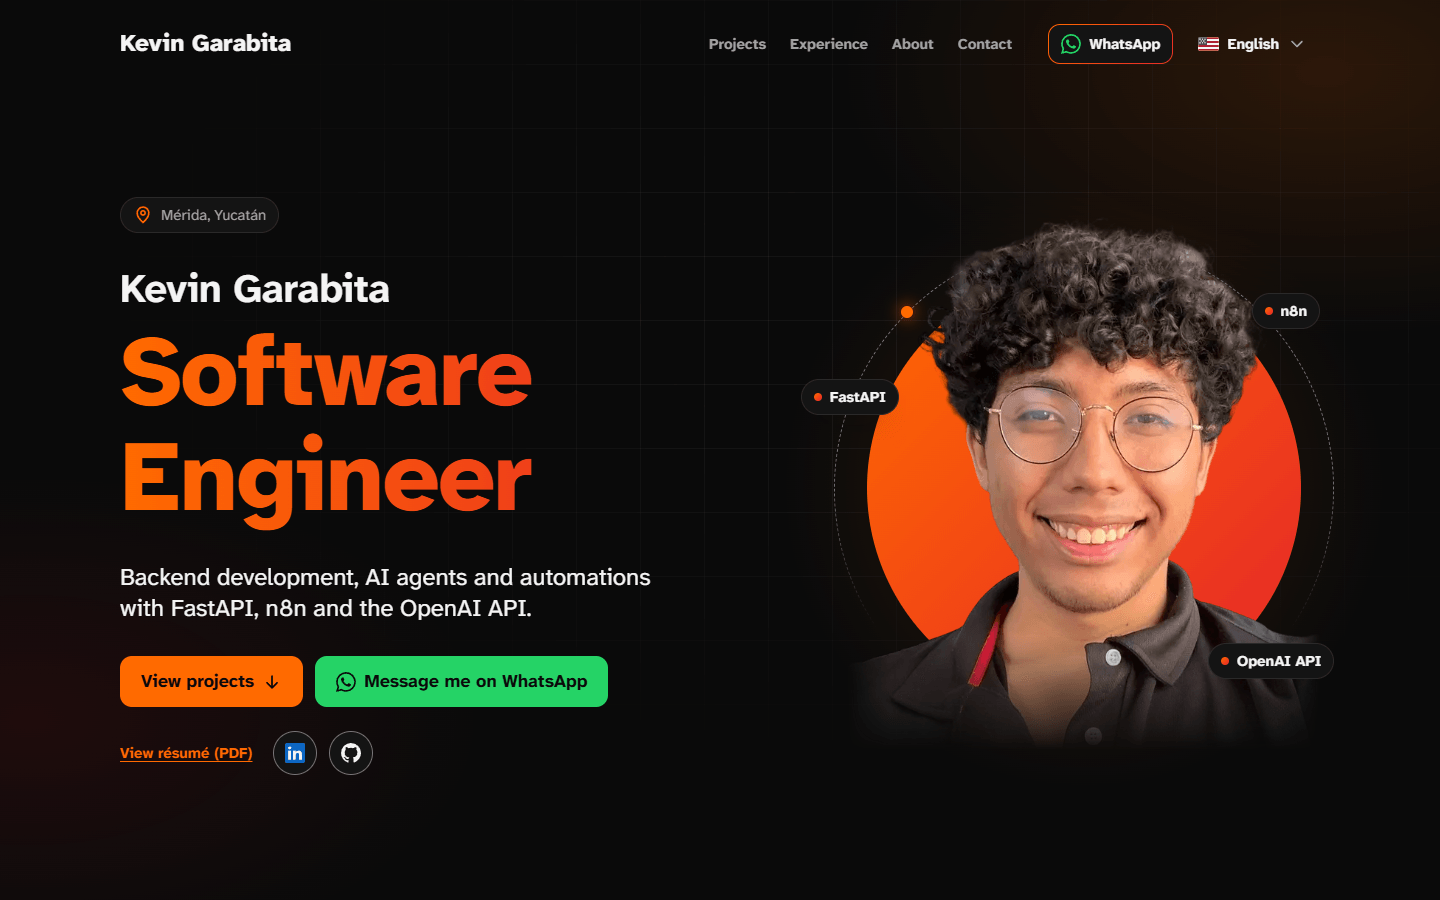
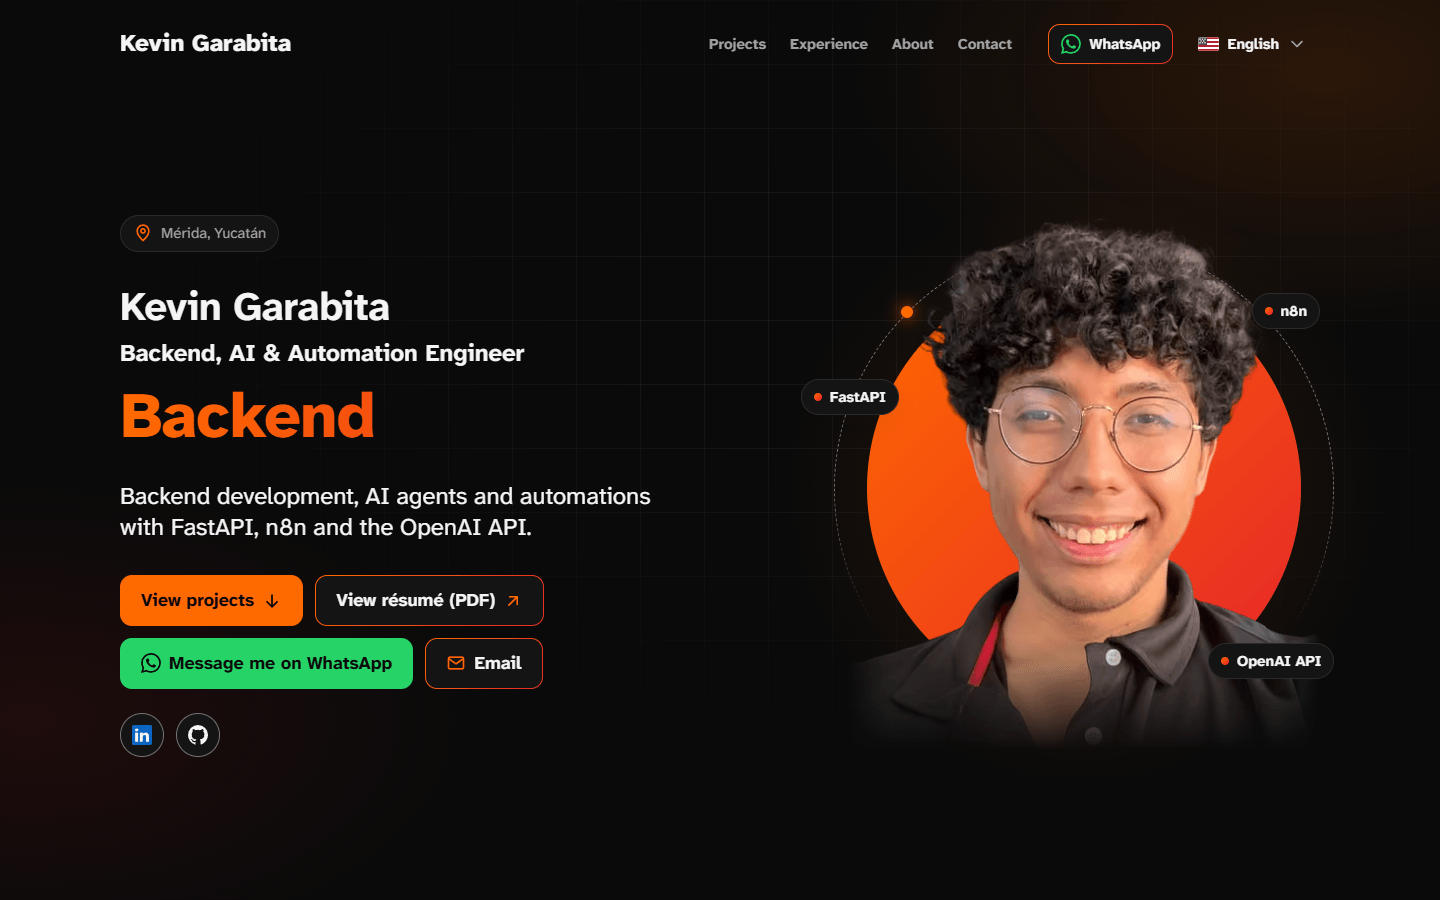
docs(readme): show the final Lighthouse scores, the new hero and the merged changes
Retakes both screenshots with the new heading and buttons, and describes the
one-hop redirects, the case-study structured data, the checked SEO lengths,
the image work, the build badge values and where the CVs and availability live.

Changed region(s): [[0.0625, 0.3111, 0.4688, 0.5911], [0.0625, 0.6222, 0.4688, 0.8711], [0.0938, 0.2178, 0.1875, 0.28]]

diff --git a/README.md b/README.md
@@ -7,15 +7,15 @@ Source code of the personal site of **Kevin Garabita**, a Backend, AI & Automati
 **Live site: [www.garasoftware.com.mx](https://www.garasoftware.com.mx)**
 
 <p align="center">
-  <img src="docs/screenshots/home-desktop.png" width="600" alt="English home page on a desktop screen: Kevin Garabita's name and title, a summary of his backend, AI agent and automation work, buttons to view his projects and message him on WhatsApp, links to his résumé, LinkedIn and GitHub, and his photo in front of an orange-to-red circle labelled FastAPI, n8n and OpenAI API.">
-  <img src="docs/screenshots/home-phone.png" width="173" alt="The same English home page on a phone: the photo first, then the name, title, summary and buttons stacked in one column.">
+  <img src="docs/screenshots/home-desktop.png" width="600" alt="English home page on a desktop screen: the heading Kevin Garabita, Backend, AI &amp; Automation Engineer, the word Backend in large orange letters, a summary of his backend, AI agent and automation work, buttons to view his projects, view his résumé, message him on WhatsApp and email him, LinkedIn and GitHub links, and his photo in front of an orange-to-red circle labelled FastAPI, n8n and OpenAI API.">
+  <img src="docs/screenshots/home-phone.png" width="173" alt="The same English home page on a phone: the photo first, then the name and role, the word Backend, the summary and the buttons stacked in one column.">
 </p>
 
 ## Highlights
 
 - **Four languages without an i18n library**, with types that fail the build when a text is missing in any of them.
 - **Every page is static HTML**, generated at build time for each language and project.
-- **SEO built from the content**: complete metadata on every page, `hreflang`, a sitemap dated by the content, Open Graph images rendered at build time and JSON-LD structured data.
+- **SEO built from the content**: complete metadata on every page (titles and descriptions whose length the build checks), `hreflang`, a sitemap dated by the content, Open Graph images rendered at build time and JSON-LD structured data on every page.
 - **Accessibility as a gate**: the full `jsx-a11y` recommended rule set with zero warnings allowed, keyboard and screen-reader support in the menus, filters and gallery, and measured colour contrast.
 - **Three runtime dependencies**: `next`, `react` and `react-dom`. No UI kit, animation library or i18n package.
 - **Continuous integration** on every pull request: lint, typecheck, formatting and a production build.
@@ -41,23 +41,25 @@ Each decision is written down with its reason in [`docs/decisions.md`](docs/deci
 
 - **Every page lives under `src/app/[lang]`**, so the root layout renders the right `<html lang>` and each language is generated as its own static HTML.
 - **The locale comes from `next/root-params`** (`lang()`), read in the layout, pages and sections. Small presentational components and Client Components receive the locale or the translated text through props.
-- **`src/proxy.ts` sends URLs without a language prefix** to the language the visitor picked in the language menu (stored in the `preferred-locale` cookie) or, without that cookie, to English. The browser's `Accept-Language` is not used: everyone sees English first and can choose another language.
+- **`src/proxy.ts` sends URLs without a language prefix in one hop**: a permanent 308 to English without the `preferred-locale` cookie, or a 307 to the language the visitor picked in the language menu. Both carry `Cache-Control: private, no-store` and `Vary: Cookie`, so a browser never keeps the permanent redirect for someone who later picks another language. The browser's `Accept-Language` is not used: everyone sees English first and can choose another language.
 - **Interface text lives in typed dictionaries** (`src/i18n/dictionaries/`). The `Dictionary` type is the shape of the Spanish dictionary, so a key missing in another language is a type error, and a new locale does not compile until its dictionary is registered.
 - **Content uses `LocalizedText`** (`Record<Locale, string>`), so every project, job and skill has to be written in all four languages.
 
 ### SEO
 
-- **One helper builds the metadata of every page** (`buildPageMetadata` in `src/lib/metadata.ts`): title, description, canonical URL, `hreflang` alternates, Open Graph and the X card. Next.js merges metadata shallowly (a page that sets `openGraph` replaces the layout's whole object), so each page gets the complete set from one place.
+- **One helper builds the metadata of every page** (`buildPageMetadata` in `src/lib/metadata.ts`): title, description, canonical URL, `hreflang` alternates, Open Graph and the X card. Titles stay within 60 characters and descriptions within 140–160 in every language; the SEO texts live in `src/content/site-metadata.ts` and `src/content/project-seo.ts`, and the build fails when one is missing or out of range. Next.js merges metadata shallowly (a page that sets `openGraph` replaces the layout's whole object), so each page gets the complete set from one place.
+- **`x-default` points to the English page**, which answers 200, in the `<head>` and in the sitemap; both come from the same function.
 - **The sitemap is dated by the content**: each project uses its `lastUpdated` date and the home page the most recent content date, never the build date, so a redeploy does not claim that every page changed.
-- **Open Graph images are rendered at build time** with `next/og`, one per language and project. They are text only (about 50 KB) because WhatsApp tends to drop link previews heavier than about 300 KB; a version with the photo weighed 470–600 KB.
-- **JSON-LD structured data** is built in `src/lib/structured-data.ts` from the same content files as the pages; the home page describes Kevin as a schema.org `Person` on a `ProfilePage`.
+- **Open Graph images are rendered at build time** with `next/og`, one per language and project. They are text only (60–80 KB) because WhatsApp tends to drop link previews heavier than about 300 KB; a version with the photo weighed 470–600 KB. Each one has alt text in its page's language, and its URL carries a hash of the text it draws, so social networks fetch it again when the content changes.
+- **JSON-LD structured data** is built in `src/lib/structured-data.ts` from the same content files as the pages; the home page describes Kevin as a schema.org `Person` on a `ProfilePage`, and every case study adds a `BreadcrumbList` and a `CreativeWork`.
 - **Descriptions only use facts from the CV**, kept with the rest of the content in `src/content/`.
 
 ### Performance
 
 - **Static generation everywhere**: `generateStaticParams` lists every language and project, and `dynamicParams = false` rejects anything else. Cache Components stays off: the site is fully static, and with it enabled a missing project answered 200 on its first request.
 - **Real 404s**: `app/global-not-found.tsx` answers any unknown URL with a server-rendered 404 page in all four languages.
-- **`next/image`** for every photo and screenshot, with `sizes` that match the layout.
+- **`next/image`** for every photo and screenshot: AVIF first, then WebP, srcset widths trimmed to what the layouts draw, `sizes` that match the layout, and `fetchPriority="high"` only on the largest element of the first screen.
+- **Lean HTML**: the skill logos are SVG files from a statically generated route instead of inline markup, which cut the home page HTML by more than half.
 - **Self-hosted font** through `next/font`: the font files are downloaded at build time and served from the same domain.
 - **Motion only animates `transform` and `opacity`**, so nothing moves the layout, and it stops with the system's `prefers-reduced-motion` setting. Scroll reveals are progressive enhancement: the HTML arrives fully visible, and content is hidden only after the script knows what is already on screen. The hero photo, the largest element on the first screen, never starts invisible.
 
@@ -65,19 +67,22 @@ Each decision is written down with its reason in [`docs/decisions.md`](docs/deci
 
 - One `h1` per page, ordered headings, landmarks (`header`, `nav`, `main`, `footer`) and a skip-to-content link.
 - A visible focus ring on every interactive element; anchors and focused elements are never hidden behind the sticky header.
-- The language menu and the project filters follow the disclosure pattern (`aria-expanded`, `aria-controls`, Escape closes and returns focus). The screenshot gallery opens in a native `<dialog>` with keyboard navigation.
+- The language menu and the project filters follow the disclosure pattern (`aria-expanded`, `aria-controls`, Escape closes and returns focus). The screenshot gallery opens in a native `<dialog>` with keyboard navigation; focus stays inside it and returns to the thumbnail that opened it.
 - Colour contrast is measured and documented in `docs/design.md`; colours below 4.5:1 are never used for small text.
 - Touch targets of at least 24 px, and links that open a new tab say so to screen readers.
+- axe-core reports no violations on any page in the four languages, at phone and desktop sizes.
 
 ## Lighthouse
 
-Measured on a **local production build** (`next build` + `next start`) with Lighthouse 13.5 and mobile emulation on 2026-10-10. Scores on the live site may differ.
+Measured on a **local production build** (`next build` + `next start`) with Lighthouse 13.5 and mobile emulation on 2026-10-10, median of three runs. Scores on the live site may differ.
 
-| Page                                | Performance | Accessibility | Best Practices | SEO |
-| ----------------------------------- | ----------: | ------------: | -------------: | --: |
-| `/es`                               |          93 |           100 |            100 | 100 |
-| `/en`                               |          94 |           100 |            100 | 100 |
-| `/es/projects/field-report-manager` |          94 |           100 |            100 | 100 |
+| Page                                | Performance | Accessibility | Best Practices | SEO | Largest Contentful Paint |
+| ----------------------------------- | ----------: | ------------: | -------------: | --: | -----------------------: |
+| `/es`                               |          96 |           100 |            100 | 100 |                    2.7 s |
+| `/en`                               |          96 |           100 |            100 | 100 |                    2.7 s |
+| `/es/projects/field-report-manager` |          97 |           100 |            100 | 100 |                    2.7 s |
+
+The same pages scored 93, 94 and 94 in performance before the image and HTML work described above, with a Largest Contentful Paint of 2.9–3.1 s. Cumulative Layout Shift is 0 on every page.
 
 ## Getting started
 
@@ -126,12 +131,14 @@ src/
     sitemap.ts           /sitemap.xml
     robots.ts            /robots.txt
     icon.svg             KG monogram (also apple-icon.png and favicon.ico)
+    technology-logos/    skill logos as static SVG files
   proxy.ts               sends URLs without a language to the saved language or English
   assets/fonts/          Atkinson Hyperlegible Next TTF files (OFL) for the Open Graph images
   components/
     layout/              header, footer, language menu, skip link
     sections/            home page sections
     projects/            cards, filters, gallery, flow diagram and case-study parts
+    recruiter/           availability note
     motion/              scroll reveal and the rotating title
     ui/                  building blocks: container, section, button, tag, icons, flags
     seo/                 JSON-LD and the Open Graph image layout
@@ -148,14 +155,17 @@ docs/                    technical and design decisions, deployment guide (in Sp
 
 ## Adding a project
 
-1. Create a file in `src/content/projects/` and add it to the array in `src/content/projects/index.ts` (that order is the order on the site). The `Project` type in `src/types/content.ts` describes every field, and TypeScript flags anything missing. `kind` feeds the "Type" filter on `/[lang]/projects`, `isFeatured: true` also shows the project on the home page, screenshots go in `public/images/projects/<slug>/` and in `images`, and automation flows go in `flowDiagram`.
+1. Create a file in `src/content/projects/` and add it to the array in `src/content/projects/index.ts` (that order is the order on the site). The `Project` type in `src/types/content.ts` describes every field, and TypeScript flags anything missing. `kind` feeds the "Type" filter on `/[lang]/projects`, `isFeatured: true` also shows the project on the home page, screenshots go in `public/images/projects/<slug>/` and in `images`, automation flows go in `flowDiagram`, and `buildMethod` (`"ai-assisted"` or `"hand-coded"`) shows the build badge and its filter. The optional `status`, `metrics` (before and after) and `architecture` fields only appear on the page when they have data.
 2. Write every text in the four languages, `{ es: "...", en: "...", pt: "...", fr: "..." }`, or use `sameInEveryLanguage("...")` when it reads the same in all of them.
-3. Set `lastUpdated` to the date of the change (`"YYYY-MM-DD"`); the sitemap uses it.
-4. Run `npm run check`.
+3. Add its title (60 characters at most, with the key stack) and description (140–160 characters) in the four languages to `src/content/project-seo.ts`; the build fails if they are missing or out of range.
+4. Set `lastUpdated` to the date of the change (`"YYYY-MM-DD"`); the sitemap uses it.
+5. Run `npm run check`.
 
 No component needs to change: the project card, the filters, the case-study page `/[lang]/projects/[slug]`, its Open Graph image and its sitemap entry are all generated from the data.
 
 If you change the profile, experience, education or skills, also update `siteLastUpdated` in `src/content/site-metadata.ts`.
+
+Résumés live in `public/cv/`, and `profile.resumeFiles` lists the ones that exist; a language without its own CV links the Spanish one. Every CV link opens the PDF in a new tab. Availability (status, work arrangement and start month) lives in `src/content/availability.ts`; while it is empty, the site shows nothing.
 
 Text that still needs real information is written with `placeholderText()` and shows `[PLACEHOLDER]`. A production build on Vercel fails while any remains, so none can go live by accident.
 
